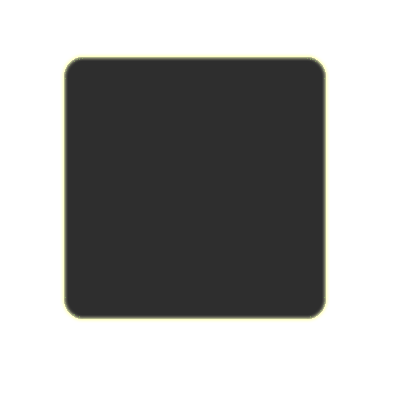
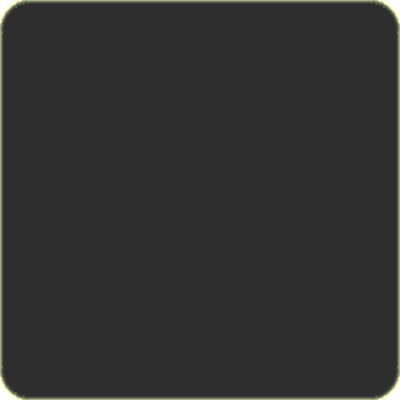
Fixed box sizing. Next step is adding the ball

diff --git a/game.js b/game.js
@@ -15,8 +15,8 @@ var boxGrid = function(){
 	exports.buffer = 2;
 
 	//The number of rows and columns
-	exports.rowNums = 4;
-	exports.colNums = 10;
+	exports.rowNums = 3;
+	exports.colNums = 8;
 
 
 	//The coordinates of the grid
@@ -28,6 +28,7 @@ var boxGrid = function(){
 	//TODO Remove fixed number, find appropriate ratio
 	exports.h = window.canvas.height*.6 - exports.ycoord*2;
 
+	//The width and height of each slot
 	exports.colWidth = exports.w/exports.colNums;
 	exports.rowWidth = exports.h/exports.rowNums;
 
@@ -70,6 +71,14 @@ var ball = function(){
 	//Not moving, 1 means moving
 	exports.state = 0;
 
+	exports.xcoord = 5;
+	exports.ycoord = 5;
+	exports.w = 5;
+	exports.h = 5;
+
+	exports.image = new Image();
+	exports.image.src = "assets/ball.png";
+
 
 	return exports;
 }();
@@ -82,34 +91,37 @@ function draw(keyCode) {
 	//TODO: needs to draw everything on the screen
 
 	checkBounds(bar, canvas, keyCode);
-	window.ctx.drawImage(bar.image, bar.xcoord, bar.ycoord, bar.w, bar.h);
+
+	if(ball.state === 0){
+		window.ctx.drawImage(bar.image, bar.xcoord, bar.ycoord, bar.w, bar.h);
+	}
 
 
 
 	//Draw the grid
-	//First the columns
-	var currX = boxGrid.xcoord;
-	var currY = boxGrid.ycoord;
-	for(var i = 0; i <= boxGrid.colNums; i++){
-		window.ctx.beginPath();
-		window.ctx.moveTo(currX, currY);
-		console.log(currX);
-		ctx.lineTo(currX, boxGrid.h + currY);
-		ctx.closePath();
-	    ctx.stroke();
-		currX = currX + boxGrid.colWidth;
-	}
+	// //First the columns
+	// var currX = boxGrid.xcoord;
+	// var currY = boxGrid.ycoord;
+	// for(var i = 0; i <= boxGrid.colNums; i++){
+	// 	window.ctx.beginPath();
+	// 	window.ctx.moveTo(currX, currY);
+	// 	console.log(currX);
+	// 	ctx.lineTo(currX, boxGrid.h + currY);
+	// 	ctx.closePath();
+	//     ctx.stroke();
+	// 	currX = currX + boxGrid.colWidth;
+	// }
 
-	//Now the rows
-	var currX = boxGrid.xcoord;
-	for(var i = 0; i <= boxGrid.rowNums; i++){
-		window.ctx.beginPath();
-		window.ctx.moveTo(currX, currY);
-		ctx.lineTo(boxGrid.w + currX, currY);
-		ctx.closePath();
-	    ctx.stroke();
-		currY = currY + boxGrid.rowWidth;
-	}
+	// //Now the rows
+	// var currX = boxGrid.xcoord;
+	// for(var i = 0; i <= boxGrid.rowNums; i++){
+	// 	window.ctx.beginPath();
+	// 	window.ctx.moveTo(currX, currY);
+	// 	ctx.lineTo(boxGrid.w + currX, currY);
+	// 	ctx.closePath();
+	//     ctx.stroke();
+	// 	currY = currY + boxGrid.rowWidth;
+	// }
 
 	//Iterate through the grid and draw boxes in each slot
 	for(i = 0; i < boxGrid.colNums; i++){
@@ -117,7 +129,7 @@ function draw(keyCode) {
 
 			//width of the box
 			var w = boxGrid.colWidth;
-			console.log(w + " is the width of the box");
+
 			//Height of the box
 			var h = boxGrid.rowWidth;
 
@@ -129,8 +141,7 @@ function draw(keyCode) {
 			//y coordinate of the box
 			var ycoord = (boxGrid.ycoord + boxGrid.rowWidth*j);
 
-			console.log(h + " is the height of the box");
-			window.ctx.drawImage(box.image, xcoord, ycoord, w, h);
+			window.ctx.drawImage(box.image, xcoord, ycoord, w - boxGrid.buffer, h - boxGrid.buffer);
 		}
 	}
 
@@ -184,10 +195,7 @@ canvas.focus();
 
 
 function onMouseDown(event) {
-    // var x = event.pageX - canvas.offsetLeft;  // do not use event.x, it's not cross-browser!!!
-    // var y = event.pageY - canvas.offsetTop;
-    // ctx.fillStyle = "rgba(0,128,128,0.5)";
-    // ctx.fillRect(x-25, y-25, 50, 50);
+
 }
 canvas.addEventListener('mousedown', onMouseDown, false);
 
